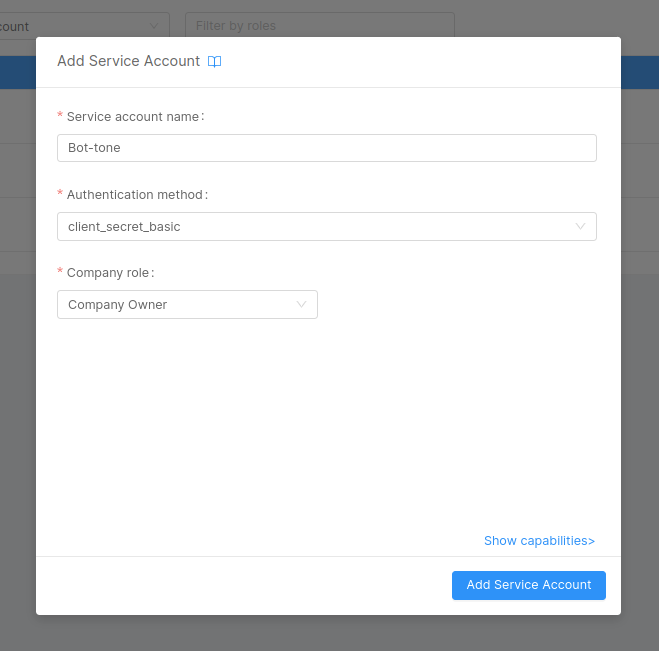
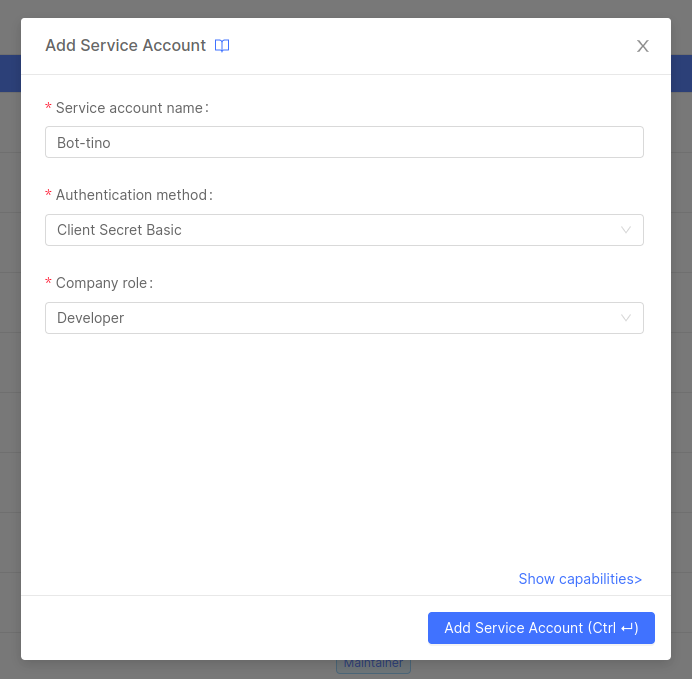
update service account screenshots

Changed region(s): [[0.0, 0.0, 1.0, 1.0], [0.8801, 0.3072, 0.9105, 0.3687], [0.4249, 0.4608, 0.4856, 0.4916]]

diff --git a/docs/development_suite/identity-and-access-management/manage-service-accounts.md b/docs/development_suite/identity-and-access-management/manage-service-accounts.md
@@ -28,7 +28,7 @@ In this [article](https://blog.mia-platform.eu/en/service-account-m2m-with-secur
 
 A User with enough administrative permission on a specific Company will be able to view the existing Service Accounts in the Company, add new ones and delete existing ones from the **Service accounts section**.
 
-<!-- TODO: Add screeenshot of the section -->
+![Service accounts portal](./img/manage-service-accounts/service-accounts-portal.png)
 
 ### Adding a Service Account
 
@@ -43,7 +43,6 @@ The Service Account creation process will require the following information:
     <div style={{display: 'flex', justifyContent: 'center'}}>
       <div style={{display: 'flex', width: '600px'}}>
 
-    <!-- TODO: take these screenshots from the service accounts section -->
     ![Add Company Service Account with client secret basic auth](./img/manage-service-accounts/add_company_sa_client_secret.png)
 
       </div>
@@ -56,7 +55,6 @@ The Service Account creation process will require the following information:
     <div style={{display: 'flex', justifyContent: 'center'}}>
       <div style={{display: 'flex', width: '600px'}}>
     
-    <!-- TODO: take these screenshots from the service accounts section -->
     ![Add Company Service Account with private key jwt auth](./img/manage-service-accounts/add_company_sa_private_key_jwt.png)
 
       </div>
@@ -73,7 +71,6 @@ A Service Account can be removed from the Company by clicking the delete icon on
 <div style={{display: 'flex', justifyContent: 'center'}}>
   <div style={{display: 'flex', width: '600px'}}>
 
-<!-- TODO: take these screenshots from the service accounts section -->
 ![Delete Company Service Account](./img/manage-service-accounts/delete_company_sa.png)
 
   </div>
@@ -108,9 +105,13 @@ Always pay attention when assigning Roles, in order to avoid providing undesired
 
 A User with enough administrative permission on a specific Project will be able to view all the existing Service Accounts inside the Project Settings Area of a Project belonging to that specific Company. From there, the user can edit the role of service accounts on the specific Project (and, optionally, on each existing Runtime Environment).
 
-![Project identities page](./img/manage-identities/identities-project.png)
+<div style={{display: 'flex', justifyContent: 'center'}}>
+  <div style={{display: 'flex', width: '600px'}}>
 
-<!-- TODO: add screenshot of modal -->
+![Edit project service account](./img/manage-identities/edit-project-sa.png)
+
+  </div>
+</div>
 
 :::note
 Although the Project Identities administration portal shows all the Company's Identities, this does not mean that all of the Identities have access to the Project, since this depends on the Role they are assigned in the Company and how the permissions are inherited.

diff --git a/docs/development_suite/identity-and-access-management/manage-identities.md b/docs/development_suite/identity-and-access-management/manage-identities.md
@@ -180,7 +180,7 @@ For service accounts:
 <div style={{display: 'flex', justifyContent: 'center'}}>
   <div style={{display: 'flex', width: '600px'}}>
 
-![Edit Project Service Account](./img/manage-identities/edit_project_sa.png)
+![Edit Project Service Account](./img/manage-identities/edit-project-sa.png)
 
   </div>
 </div>
